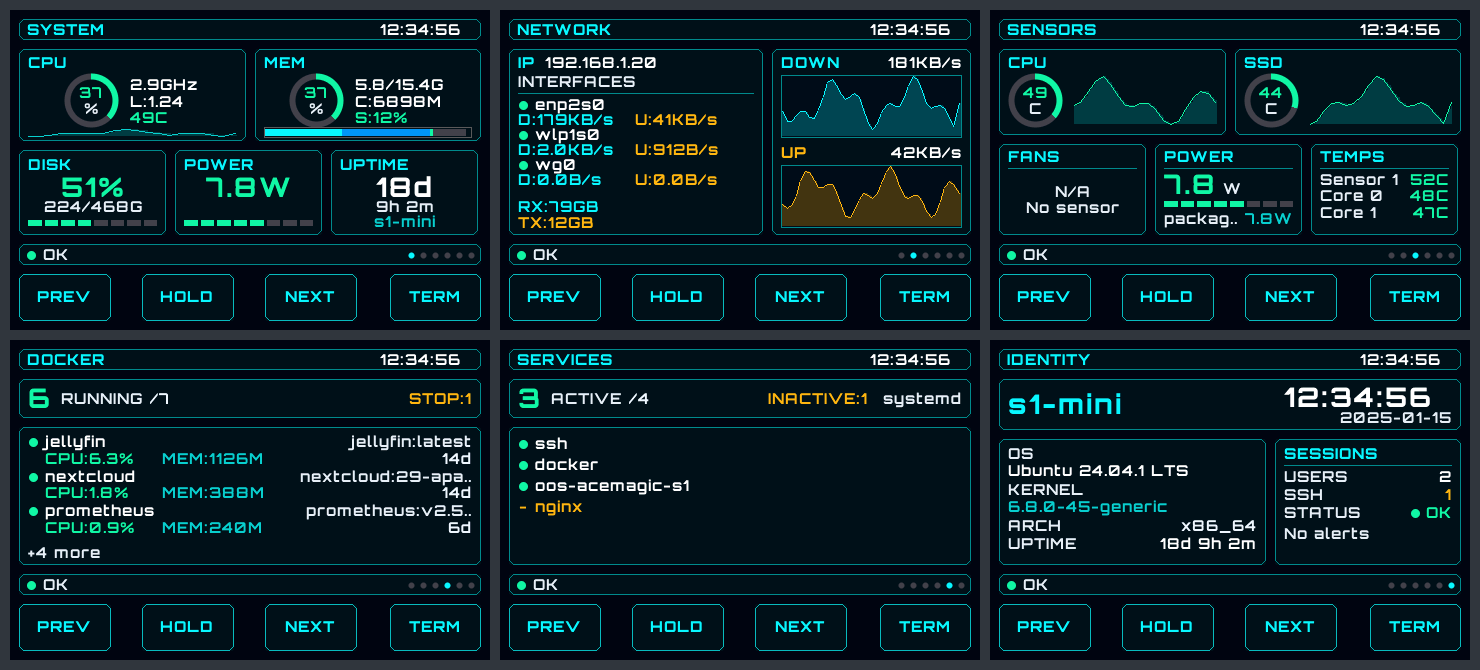
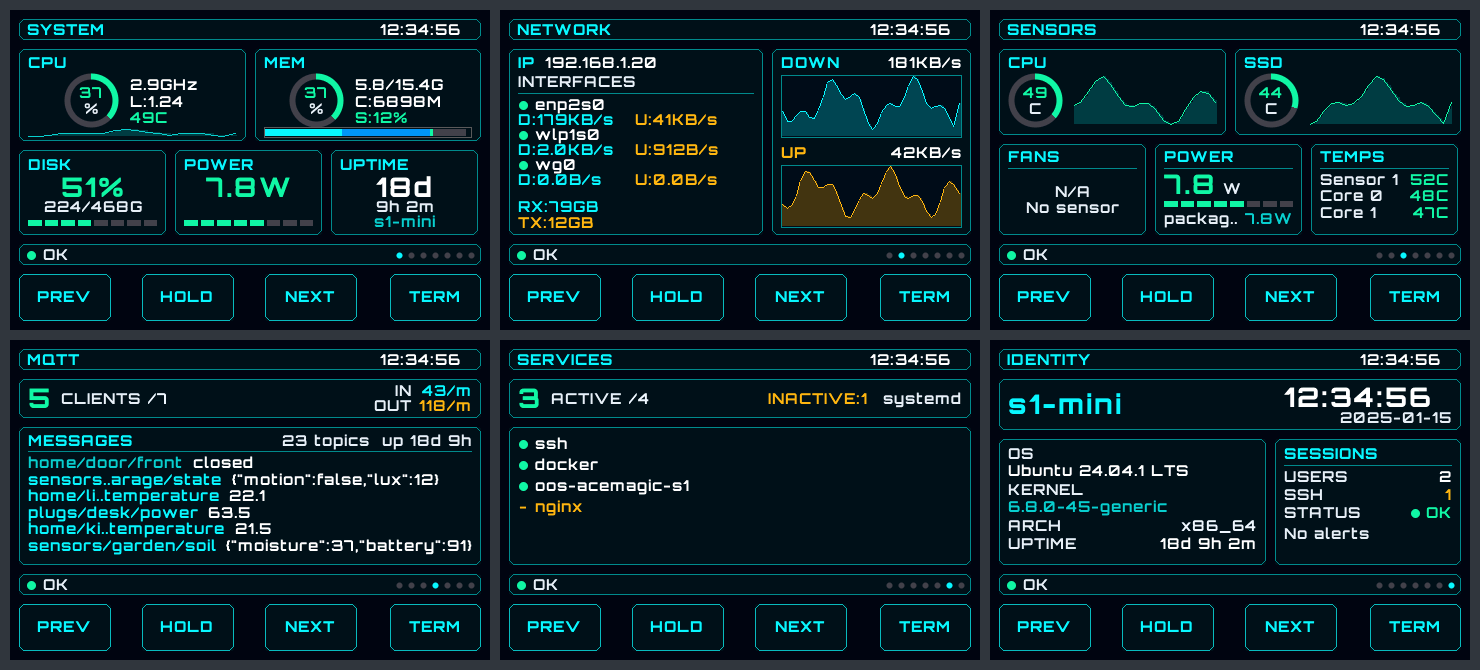
MQTT page on by default: broker status and a live message log

Changed region(s): [[0.0, 0.5672, 0.3419, 0.8358], [0.0311, 0.5075, 0.0622, 0.5672], [0.5905, 0.3582, 0.6216, 0.3881]]

diff --git a/tests/test_main.cpp b/tests/test_main.cpp
@@ -94,12 +94,12 @@ static void testNavBar() {
     CHECK(NavBar::actionFor(page) == NavBar::Action::Next);
     
     // Actions drive the shared page manager
-    Config config = Config::defaultsFor(device::SERVICE_NAME);
+    Config config = device::defaultConfig();
     Dashboard dashboard(config, device::display());
     ScreenManager& screens = dashboard.screens();
-    CHECK(screens.pageCount() == 6 && screens.currentPage() == 0);
+    CHECK(screens.pageCount() == 7 && screens.currentPage() == 0);
     NavBar::apply(NavBar::Action::Previous, screens);
-    CHECK(screens.currentPage() == 5);
+    CHECK(screens.currentPage() == 6);
     NavBar::apply(NavBar::Action::Next, screens);
     NavBar::apply(NavBar::Action::Next, screens);
     CHECK(screens.currentPage() == 1);

diff --git a/src/device.hpp b/src/device.hpp
@@ -31,4 +31,13 @@ namespace device {
         return {"display", "touch", "console_tty", "console_hook", "touch_swap_xy",
                 "touch_min_x", "touch_max_x", "touch_min_y", "touch_max_y"};
     }
+    
+    // A Pi with this display is typically a small always-on box, often an MQTT broker,
+    // so the MQTT page is on by default
+    inline Config defaultConfig() {
+        Config c = Config::defaultsFor(SERVICE_NAME);
+        c.pages = {"system", "network", "sensors", "mqtt", "docker", "services", "identity"};
+        c.deviceKeys = configKeys();
+        return c;
+    }
 }

diff --git a/tools/preview.cpp b/tools/preview.cpp
@@ -3,7 +3,7 @@
 #include "device.hpp"
 
 int main(int argc, char* argv[]) {
-    PreviewDevice pi{device::SERVICE_NAME, device::display(), device::configKeys(),
+    PreviewDevice pi{device::SERVICE_NAME, device::display(), device::defaultConfig().pages, device::configKeys(),
                      [](Dashboard& d) { NavBar().draw(d.framebuffer(), d.screens().hold()); }};
     return runPreview(argc, argv, pi);
 }

diff --git a/src/main.cpp b/src/main.cpp
@@ -118,8 +118,7 @@ int main(int argc, char* argv[]) {
         }
     }
     
-    Config config = Config::defaultsFor(device::SERVICE_NAME);
-    config.deviceKeys = device::configKeys();
+    Config config = device::defaultConfig();
     std::vector<std::string> warnings;
     if (!config.load(configPath, warnings) && configGiven) {
         std::cerr << "Cannot read " << configPath << std::endl;

diff --git a/README.md b/README.md
@@ -2,12 +2,12 @@
 
 The [oos-acemagic-s1](https://github.com/IO-Nji/oos-acemagic-s1) system dashboard for a
 **Raspberry Pi with a 3.5" 480x320 SPI touch display** (ILI9486/ILI9488 panel, XPT2046
-touch controller). Same six pages at 150 %, with touch buttons underneath and a
+touch controller). Same pages at 150 %, plus MQTT by default, with touch buttons underneath and a
 look tuned for a small low-contrast panel: near-black blue background, near-white
 text, heavier and wider-spaced type, even spacing between the cards and their
 content centred.
 
-![The six dashboard pages](docs/screenshots/overview.png)
+![Dashboard pages](docs/screenshots/overview.png)
 
 *Screenshots are rendered by the bundled preview tool from sample data.*
 
@@ -19,12 +19,21 @@ content centred.
 
 ## What it shows
 
-System, Network (with Wi-Fi signal), Sensors, Docker, Services and Identity pages, a
-health summary in the footer, and alerts including low supply voltage — all described in the
+System, Network (with Wi-Fi signal), Sensors, MQTT, Docker, Services and Identity
+pages, a health summary in the footer, and alerts including low supply voltage — all
+described in the
 [oos-acemagic-s1 README](https://github.com/IO-Nji/oos-acemagic-s1#readme). The code
 for them is shared, not copied: this repository adds only what is specific to the Pi.
 
-On a Pi without Docker, remove `docker` from `pages` in the settings file. Power and
+The **MQTT** page is on by default here. It connects to the broker on this machine
+(`mqtt_host`, `mqtt_port`, optional `mqtt_user` / `mqtt_password`) as a read-only
+client and shows connected clients, messages in and out per minute, broker uptime,
+and a running log of messages on the topics in `mqtt_topics` (default `#`, everything).
+New messages appear at the bottom; tap **HOLD** to stay on the page and watch. If the
+broker cannot be reached the footer shows `MQTT OFFLINE`.
+
+On a Pi without Docker or without a broker, remove `docker` or `mqtt` from `pages`
+in the settings file. Power and
 fan readings are not available on a Pi and show N/A.
 
 ## Touch navigation
@@ -74,7 +83,7 @@ Paste the lines it prints into `/etc/oos-rpi-lcd35/config.conf` and start the se
 ## Configure
 
 `/etc/oos-rpi-lcd35/config.conf` has the settings shared with the S1 version
-(`page_interval`, `pages`, `services`, `disk`) plus:
+(`page_interval`, `pages`, `services`, `disk`, `mqtt_*`) plus:
 
 | Setting | Meaning | Default |
 | --- | --- | --- |
